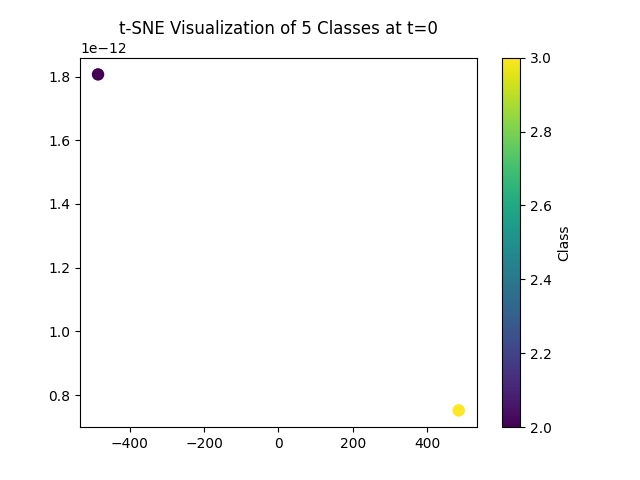
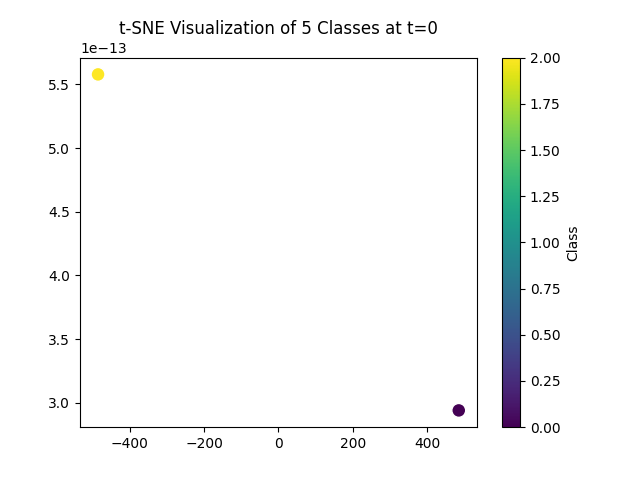
Encoded t-sne timestep values in params

diff --git a/src/diffusion.py b/src/diffusion.py
@@ -154,11 +154,12 @@ class ReverseDiffusion(DiffusionBaseUtils):
         return y_tm1, y0_hat
 
     # cannot test without cond_prior and score_net
-    def full_reverse_diffusion(self, x, cond_prior, score_net):
+    def full_reverse_diffusion(self, x, cond_prior, score_net, t1, t2, t3):
         """
         This does the full reverse diffusion process. We start by initializing a random sample from a Gaussian Distribution
         whose mean is defined by the cond_prior and with variance I. Then reverse_diffusion_step is called self.T - 1 times. In the very last step i.e. at time = 1,
         """
+
         y_t = torch.rand_like(cond_prior)+cond_prior
         for t in range(self.T):
             # when t = 999, self.T - t - 1 = 0 for self.T = 1000
@@ -173,27 +174,18 @@ class ReverseDiffusion(DiffusionBaseUtils):
                     x, y_t, t, cond_prior, score_net)  # method will crash if t = 0
                 y_t = y_tm1
 
-                if t == 250:
-                    y_t_150 = y_tm1
-                elif t == 500:
-                    y_t_300 = y_tm1
-                elif t == 750:
-                    y_t_450 = y_tm1
+                if t == t1:
+                    y_t_1 = y_tm1
+                elif t == t2:
+                    y_t_2 = y_tm1
+                elif t == t3:
+                    y_t_3 = y_tm1
             else:
                 # so t = 1
                 y_tm1 = y0_hat
 
-            # y_t_rdm = y_t.detach().numpy()
-            # print(y_t_rdm)
-            # print(np.shape(y_t_rdm))
-            # y_t_embedded = TSNE(perplexity=1).fit_transform(y_t_rdm)
-            # print(y_t_embedded)
-            # plt.scatter(y_t_embedded[0, :],
-            #             y_t_embedded[1, :], c=[0, 1, 2, 3, 4], s=5, cmap="tab5")
-            # plt.show()
-
         y0_synthetic = y_tm1
-        return y0_synthetic, y_t_150, y_t_300, y_t_450
+        return y0_synthetic, y_t_1, y_t_2, y_t_3
         # return y0_synthetic
 
 
@@ -312,6 +304,7 @@ def get_out(dcg, model, feature_label_set, reverse_diffusion):
 def eval(dcg, model, params, test_loader, report_file):
     # dcg.load_state_dict(torch.load('saved_dcg.pth')[0])
     # dcg.eval()
+    t1, t2, t3 = params["t_sne"]["t1"], params["t_sne"]["t2"], params["t_sne"]["t3"]
     reverse_diffusion = ReverseDiffusion(config=params)
     # outputs = Parallel(n_jobs=-1)(delayed(self.one_object_pred)(df.loc[df['object_id'] == object], object, report_file, verbose) for object in objects)
 
@@ -322,9 +315,9 @@ def eval(dcg, model, params, test_loader, report_file):
     dcg_output = []
     diffusion_output = []
     y_outs = []
-    y_outs_250 = []
-    y_outs_500 = []
-    y_outs_750 = []
+    y_outs_1 = []
+    y_outs_2 = []
+    y_outs_3 = []
 
     model.eval()
     for i, feature_label_set in enumerate(test_loader):
@@ -334,8 +327,8 @@ def eval(dcg, model, params, test_loader, report_file):
         y_T_mean = dcg_fusion
         # y_out = reverse_diffusion.full_reverse_diffusion(
         #     x_batch, cond_prior=y_T_mean, score_net=model)
-        y_out, y_out_250, y_out_500, y_out_750 = reverse_diffusion.full_reverse_diffusion(
-            x_batch, cond_prior=y_T_mean, score_net=model)
+        y_out, y_out_1, y_out_2, y_out_3 = reverse_diffusion.full_reverse_diffusion(
+            x_batch, cond_prior=y_T_mean, score_net=model, t1=t1, t2=t2, t3=t3)
         logging.info("Actual: {}, DCG_out: {}, Diff_out: {}".format(
             y_labels_batch, torch.argmax(y_T_mean, dim=1), torch.argmax(y_out.softmax(dim=1), dim=1)))
         targets.append(y_labels_batch)
@@ -344,12 +337,12 @@ def eval(dcg, model, params, test_loader, report_file):
 
         for inner_array in y_out:
             y_outs.append(inner_array.detach().numpy())
-        for inner_array in y_out_250:
-            y_outs_250.append(inner_array.detach().numpy())
-        for inner_array in y_out_500:
-            y_outs_500.append(inner_array.detach().numpy())
-        for inner_array in y_out_750:
-            y_outs_750.append(inner_array.detach().numpy())
+        for inner_array in y_out_1:
+            y_outs_1.append(inner_array.detach().numpy())
+        for inner_array in y_out_2:
+            y_outs_2.append(inner_array.detach().numpy())
+        for inner_array in y_out_3:
+            y_outs_3.append(inner_array.detach().numpy())
 
         if i+1 >= params['num_test_batches']:
             break
@@ -361,9 +354,9 @@ def eval(dcg, model, params, test_loader, report_file):
     dcg_diffusion_accuracy = accuracy_torch(dcg_output, diffusion_output)
     f1_score = compute_f1_score(targets, diffusion_output)
     t_sne(targets, y_outs, t_num='0')
-    t_sne(targets, y_outs_250, t_num='250')
-    t_sne(targets, y_outs_500, t_num='500')
-    t_sne(targets, y_outs_750, t_num='750')
+    t_sne(targets, y_outs_1, t_num=t1)
+    t_sne(targets, y_outs_2, t_num=t2)
+    t_sne(targets, y_outs_3, t_num=t3)
     logging.info("DCG accuracy {}".format(dcg_accuracy))
     logging.info("Diffusion model accuracy {}".format(diffusion_accuracy))
     logging.info("Diffusion-DCG accuracy {}".format(dcg_diffusion_accuracy))
